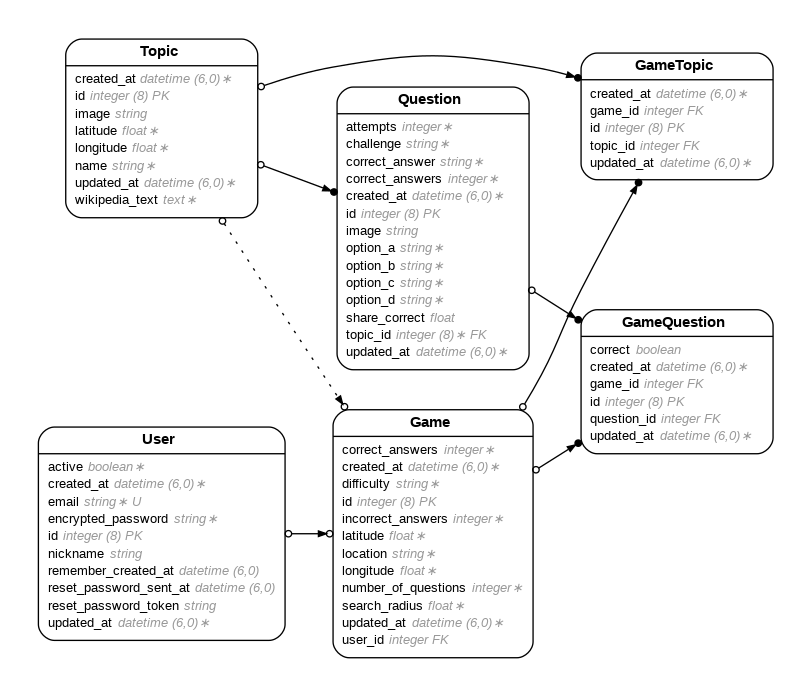
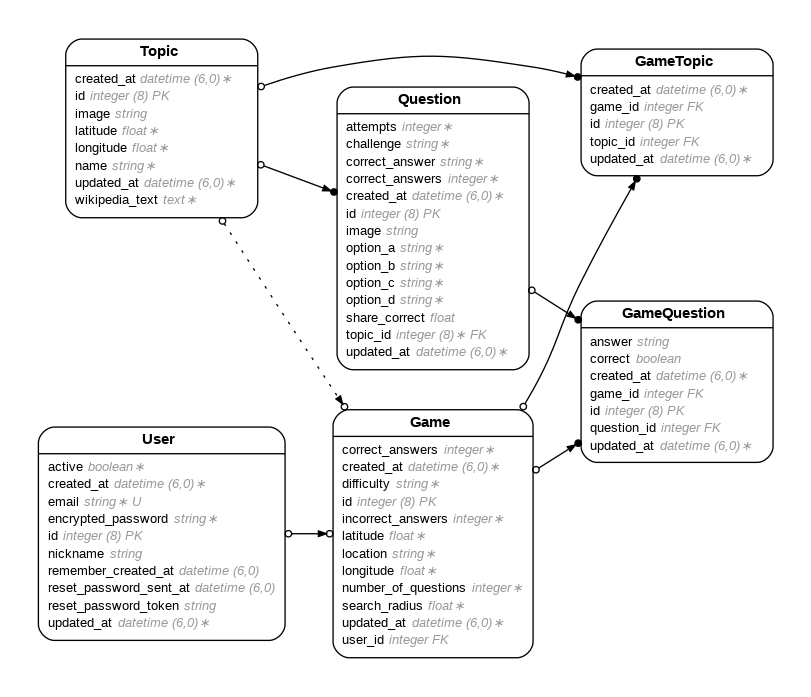
switch format so answers are a, b, c, d

diff --git a/db/schema.rb b/db/schema.rb
@@ -10,7 +10,7 @@
 #
 # It's strongly recommended that you check this file into your version control system.
 
-ActiveRecord::Schema[7.1].define(version: 2025_05_16_161539) do
+ActiveRecord::Schema[7.1].define(version: 2025_05_16_165209) do
   # These are extensions that must be enabled in order to support this database
   enable_extension "plpgsql"
 
@@ -20,6 +20,7 @@ ActiveRecord::Schema[7.1].define(version: 2025_05_16_161539) do
     t.boolean "correct"
     t.datetime "created_at", null: false
     t.datetime "updated_at", null: false
+    t.string "answer"
   end
 
   create_table "game_topics", force: :cascade do |t|

diff --git a/app/controllers/games_controller.rb b/app/controllers/games_controller.rb
@@ -160,6 +160,7 @@ class GamesController < ApplicationController
       game_question.question_id = question.id
       game_question.game_id = the_game.id
       game_question.correct = correct
+      game_question.answer = user_answer
       game_question.save
     end
 

diff --git a/app/models/game_question.rb b/app/models/game_question.rb
@@ -3,6 +3,7 @@
 # Table name: game_questions
 #
 #  id          :bigint           not null, primary key
+#  answer      :string
 #  correct     :boolean
 #  created_at  :datetime         not null
 #  updated_at  :datetime         not null

diff --git a/db/migrate/20250516165209_add_answer_to_game_questions.rb b/db/migrate/20250516165209_add_answer_to_game_questions.rb
@@ -1,0 +1,5 @@
+class AddAnswerToGameQuestions < ActiveRecord::Migration[7.1]
+  def change
+    add_column :game_questions, :answer, :string
+  end
+end
